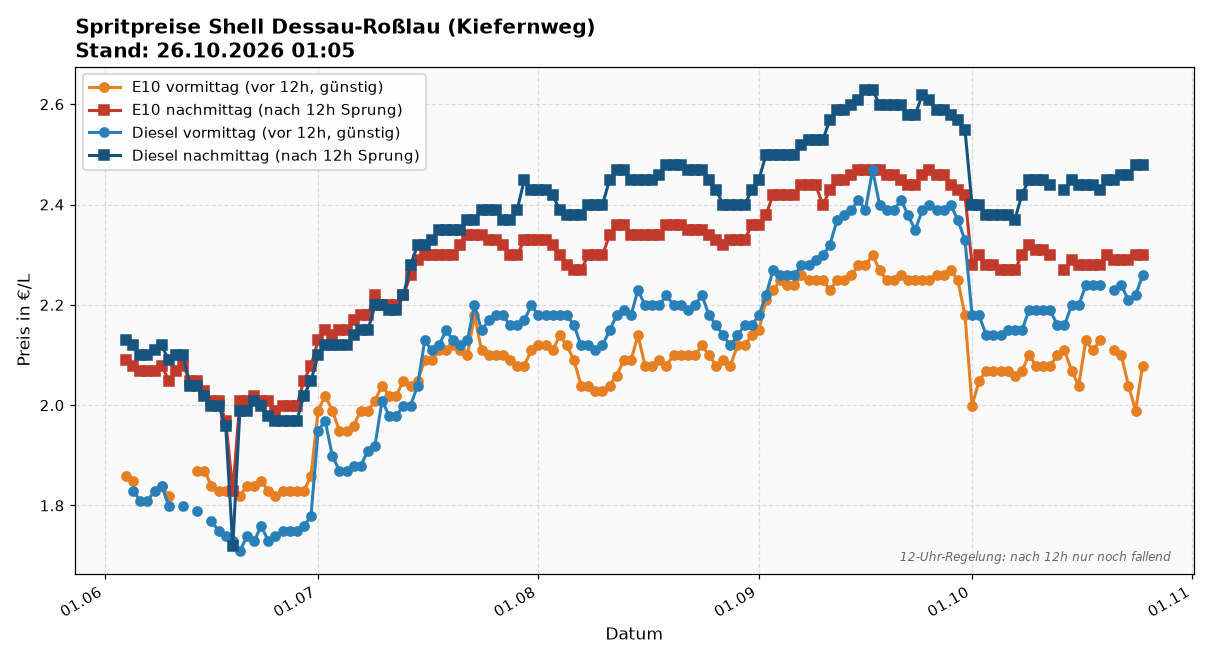
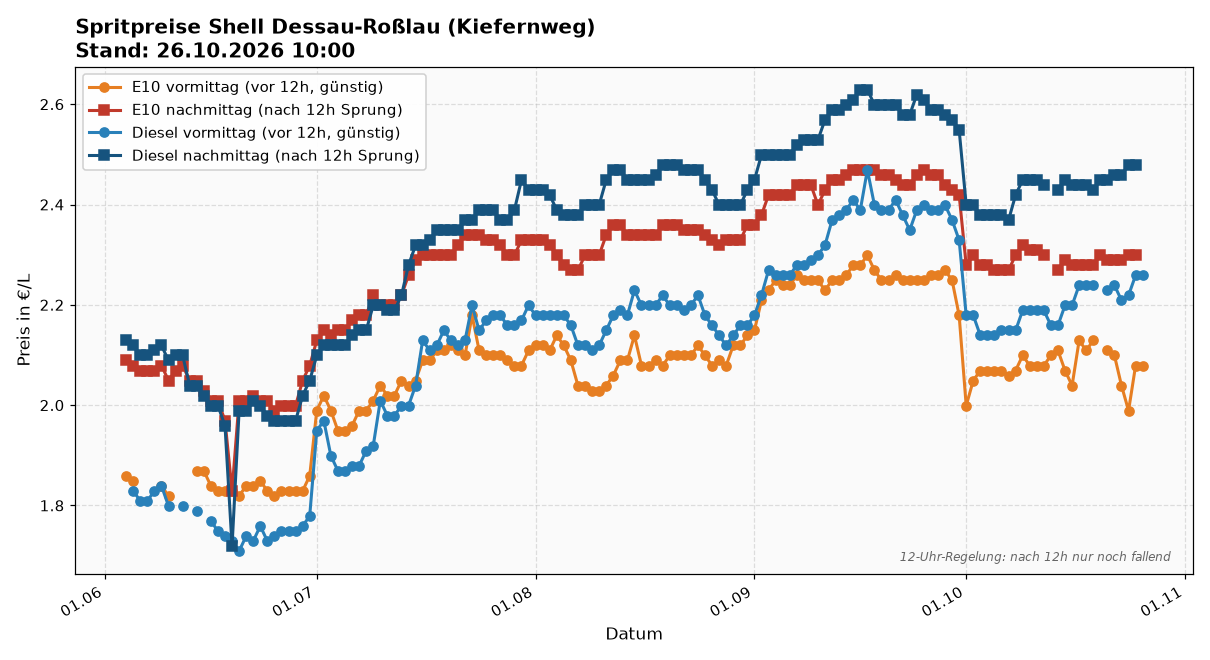
update: spritpreise 2026-10-26 10:00

diff --git a/index.html b/index.html
@@ -19,17 +19,17 @@
 </head>
 <body>
 <h1>🛢 Spritpreise Shell Dessau-Roßlau (Kiefernweg)</h1>
-<div class="sub">Source: Tankerkönig · Stand: 26.10.2026 01:05</div>
+<div class="sub">Source: Tankerkönig · Stand: 26.10.2026 10:00</div>
 
 <img src="latest.png" alt="Preisverlauf">
 
 <div class="latest">
   <strong>Heute (2026-10-26)</strong>
-  <div style="color:#888;font-style:italic;margin-bottom:0.5em;">Noch keine Messung heute — cron läuft 09:00 + 12:10.</div>
+  
   <table>
-    <tr><td>E10 vormittag</td><td class="price">— €</td></tr>
+    <tr><td>E10 vormittag</td><td class="price">2.079 €</td></tr>
     <tr><td>E10 nachmittag</td><td class="price">— €</td></tr>
-    <tr><td>Diesel vormittag</td><td class="price">— €</td></tr>
+    <tr><td>Diesel vormittag</td><td class="price">2.259 €</td></tr>
     <tr><td>Diesel nachmittag</td><td class="price">— €</td></tr>
   </table>
 </div>
